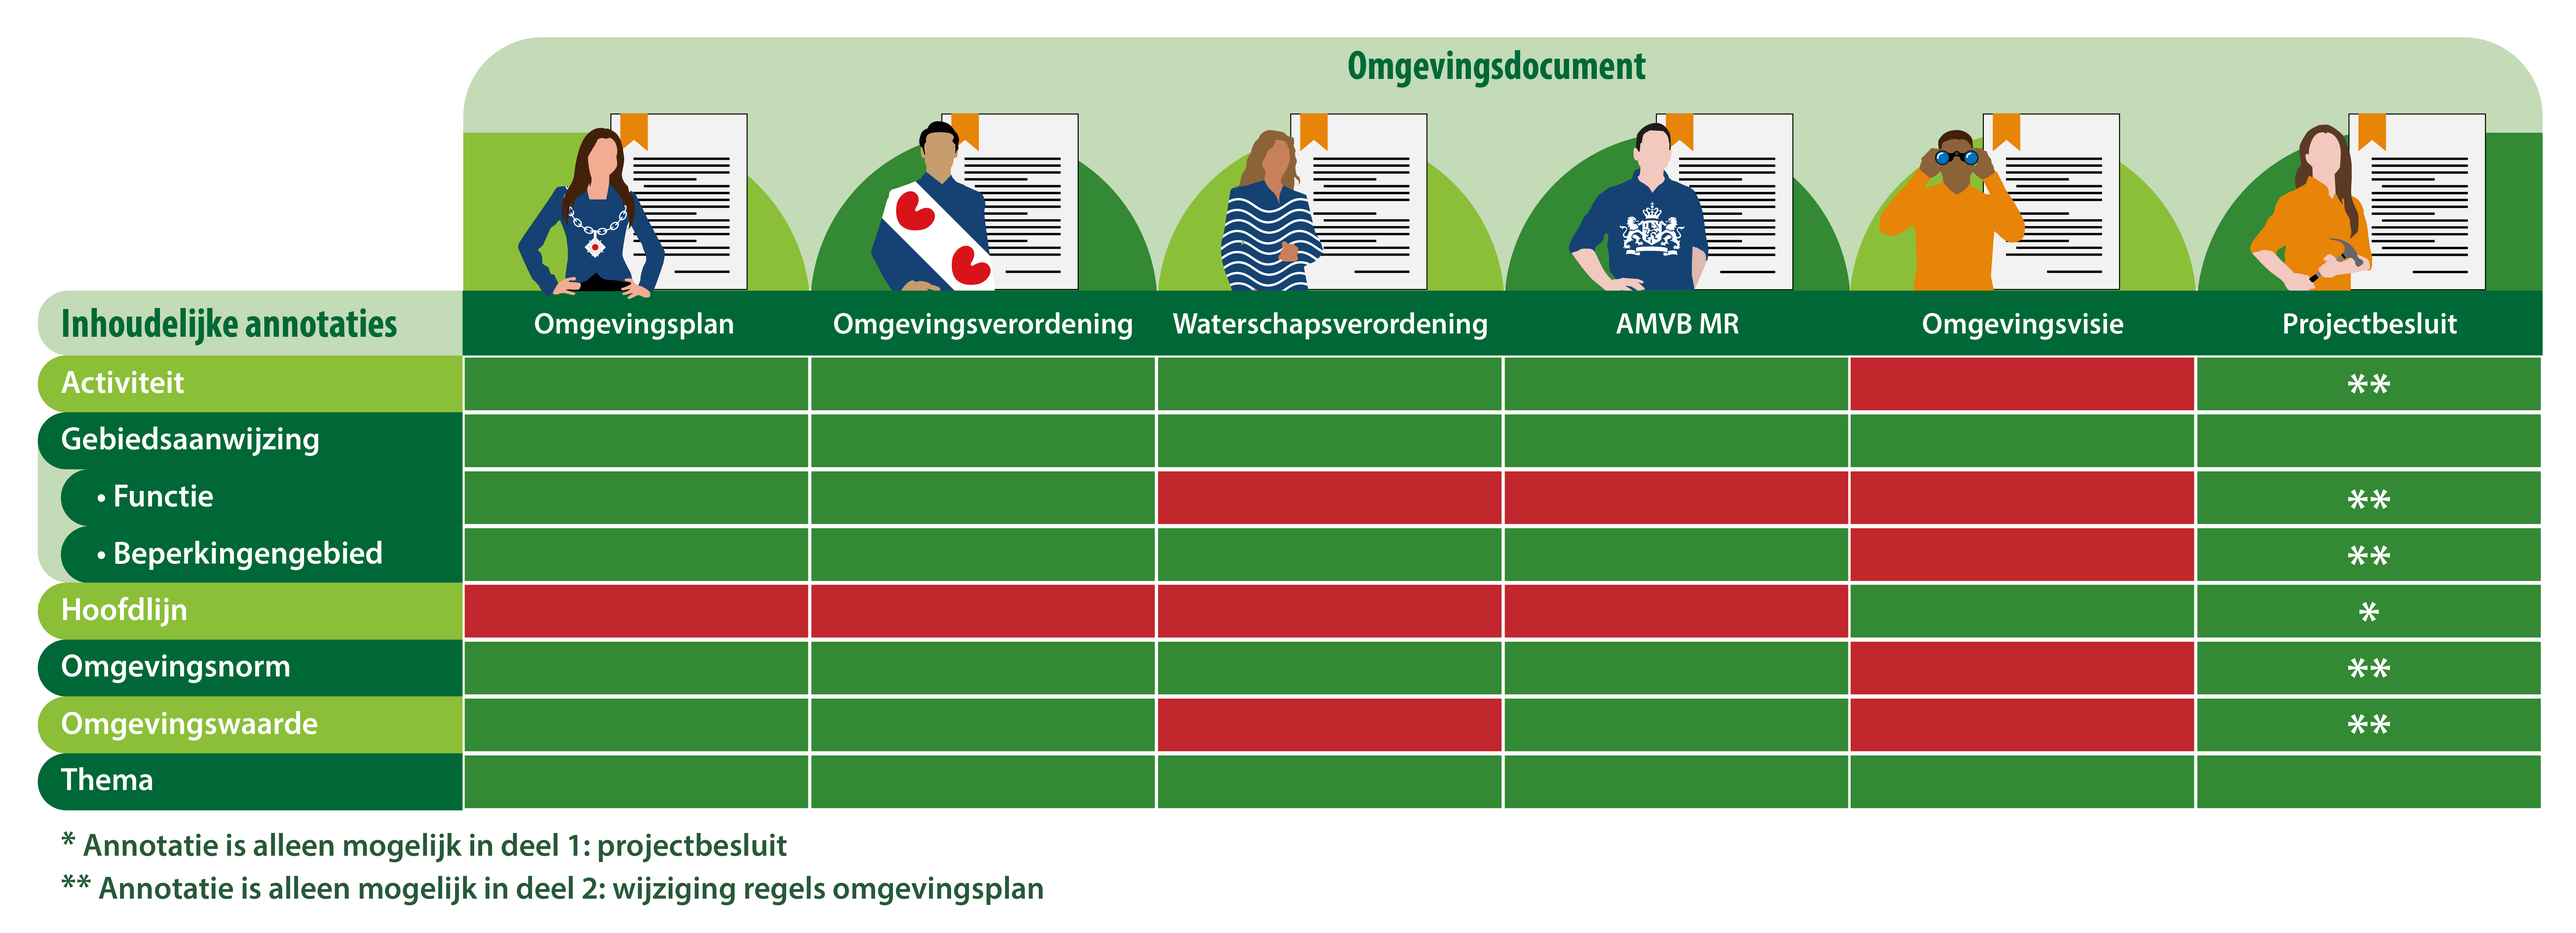
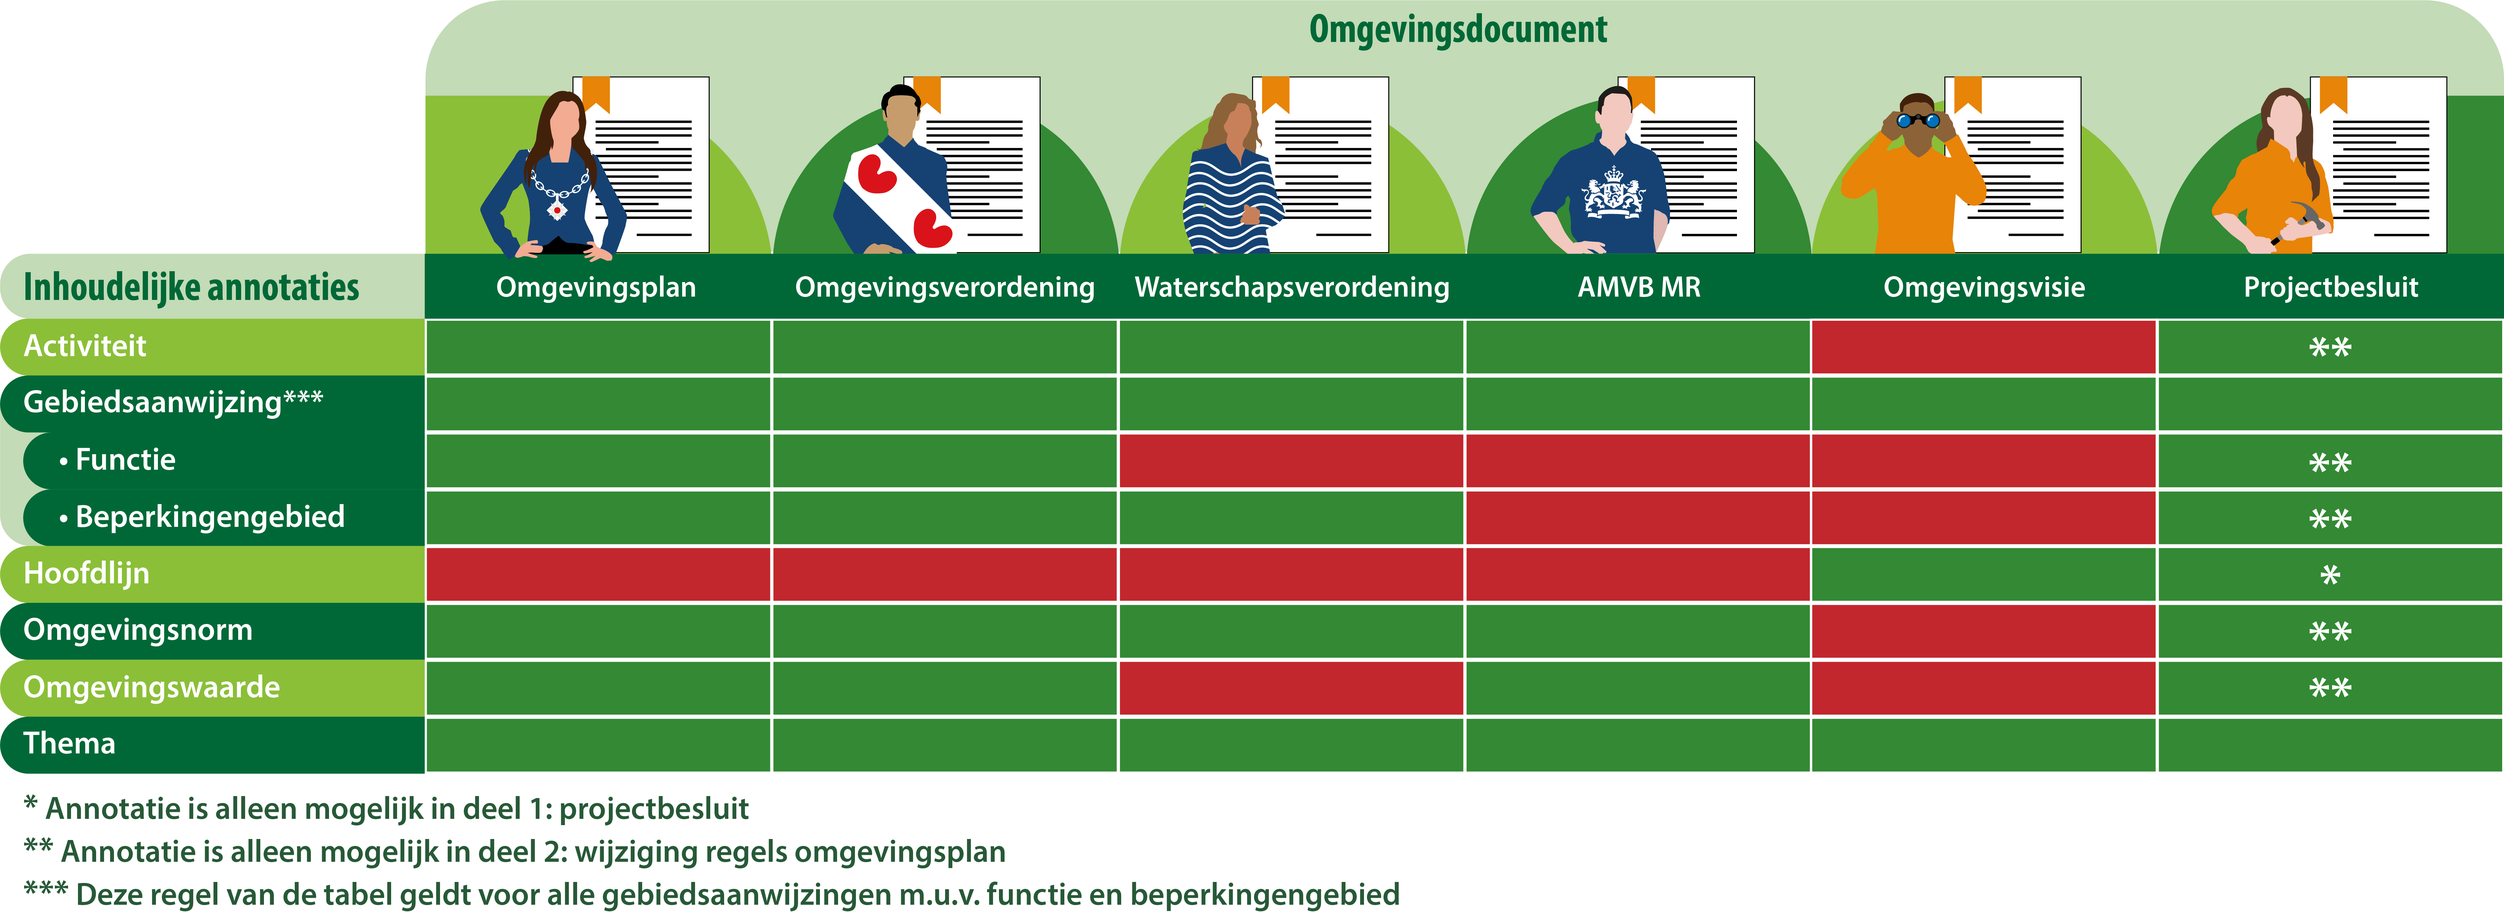
Update 06-12-2019 16.10 uur

diff --git a/Quicksearch - voorbeelduitwerkingen/Hoe annoteer ik een regel over een activiteit/7108 Koppeling juridische regels en toepasbare regels.md b/Quicksearch - voorbeelduitwerkingen/Hoe annoteer ik een regel over een activiteit/7108 Koppeling juridische regels en toepasbare regels.md
@@ -19,15 +19,14 @@ De toelichting op bovenstaande figuur volgt in onderstaande opsomming:
 >   structuur.  
 >   In bovenstaande figuur is de activiteit “Activiteiten met gevolgen voor de
 >   fysieke leefomgeving” het hoogste niveau (hiërarchisch), die via de
->   wet in de Functionele Structuur terecht komt.  
->   Onder deze activiteit valt o.a. de activiteit “Omgevingsplanactiviteit” die
->   door het IMOW-deel van de wet / AMvB in de Functionele Structuur terecht
->   komt.  
+>   wet in de Functionele Structuur terecht komt. Onder deze activiteit valt 
+>   o.a. de activiteit “Omgevingsplanactiviteit” die door het IMOW-deel van de wet / 
+>   AMvB in de Functionele Structuur terecht komt.  
 >   Ook het gegeven dat “Activiteiten met gevolgen voor de fysieke leefomgeving”
 >   de bovenliggende activiteit is van “Omgevingsplanactiviteit” komt via het
->   IMOW-deel van de wet / AMvB terecht in de Functionele Structuur. Bij het maken van
->   de activiteit *omgevingsplanactiviteit*, wordt in het attribuut *bovenliggende activiteit* 
->   aangegeven dat dit *Activiteiten met gevolgen voor de fysieke leefomgeving* is.
+>   IMOW-deel van de wet / AMvB terecht in de functionele structuur. Bij het maken van
+>   de activiteit "omgevingsplanactiviteit", wordt in het attribuut bovenliggende activiteit 
+>   aangegeven dat dit "Activiteiten met gevolgen voor de fysieke leefomgeving" is.
 
 >   2: Voor elk nieuw omgevingsdocument dat een IMOW-deel bevat met daarin
 >   activiteit-objecten, geldt dat nieuwe activiteiten gerelateerd moeten worden
@@ -54,8 +53,8 @@ De toelichting op bovenstaande figuur volgt in onderstaande opsomming:
 >   bouwen en van Dakkapel bouwen. Alle drie de activiteiten zijn nieuwe
 >   activiteiten die zijn vastgelegd in het omgevingsdocument. Om ervoor te
 >   zorgen dat Bouwactiviteit de bovenliggende activiteit wordt van de andere
->   twee activiteiten, dienen deze beide activiteiten een *bovenliggende
->   activiteit*-relatie aan te brengen naar de identificatie van Bouwactiviteit
+>   twee activiteiten, dienen deze beide activiteiten een bovenliggende
+>   activiteit-relatie aan te brengen naar de identificatie van Bouwactiviteit
 >   (in bovenstaande figuur gm0037.Activiteit.201900024). Daarnaast krijgen
 >   Bijbehorend bouwwerk bouwen en Dakkapel bouwen hun eigen identificatie
 >   (resp. gm0037.Activiteit.2019000243 en gm0037.Activiteit.2019000242).
@@ -63,12 +62,12 @@ De toelichting op bovenstaande figuur volgt in onderstaande opsomming:
 >   6,7: Zodra het omgevingsdocument en het IMOW-deel ervan in OZON terecht
 >   komt, worden alle IMOW-activiteit objecten ondergebracht in de functionele
 >   structuur. Dit wordt mogelijk gemaakt door de verplichting in IMOW op de
->   *bovenliggende activiteit* relatie. Uiteindelijk moet iedere activiteit gekoppeld
+>   bovenliggende activiteit relatie. Uiteindelijk moet iedere activiteit gekoppeld
 >   zijn aan een activiteit uit de functionele structuur, hetzij direct of indirect (middels
->   de bovenliggende activiteiten). Als in een omgevingsdocument nieuwe activiteiten vastgelegd worden die onderling elkaars *bovenliggende
->   activiteiten* vormen, dient de bovenste activiteit verplicht een
->   *bovenliggende activiteit*-relatie te krijgen met een activiteit die reeds
->   voorkomt in de functionele structuur.
+>   de bovenliggende activiteiten). Als in een omgevingsdocument nieuwe activiteiten 
+>   vastgelegd worden die onderling elkaars bovenliggende activiteiten vormen, dient de 
+>   bovenste activiteit verplicht een bovenliggende activiteit-relatie te krijgen met een 
+>   activiteit die reeds voorkomt in de functionele structuur.
 
 Het IMOW-attribuut activiteitregelkwalificatie, dat een nadere kwalificatie van
 een juridische regel over een activiteit geeft (bijvoorbeeld: vergunningplicht,

diff --git a/Quicksearch - voorbeelduitwerkingen/Hoe annoteer ik een regel over een activiteit/7107 Relatie met functionele structuur en toepasbare regels.md b/Quicksearch - voorbeelduitwerkingen/Hoe annoteer ik een regel over een activiteit/7107 Relatie met functionele structuur en toepasbare regels.md
@@ -8,17 +8,17 @@ uitleg over de functionele structuur.
 
 ![](media/7107RelatieRegelOverActiviteitenToepasbareRegel.png)
 
--   *Identificatie en naam*: 
-    de naam en identificatie worden opgeslagen in het
-    DSO, zowel in OZON als in de functionele structuur binnen het Register
-    Toepasbare Regels, die gevoed wordt door het IMOW-deel van
-    omgevingsdocumenten.
+-   **Identificatie en naam**: 
+    De naam en identificatie worden opgeslagen in het
+    DSO, zowel in OZON als in de functionele structuur binnen het [Register
+    Toepasbare Regels](https://aandeslagmetdeomgevingswet.nl/digitaal-stelsel/over-het-digitaal-stelsel/onderdelen-landelijke-voorziening/register-toepasbare-regels/), 
+    die gevoed wordt door het IMOW-deel van omgevingsdocumenten.
 
--   *Locatieaanduiding*: 
+-   **Locatieaanduiding**: 
     Toepasbare regels halen hun locatie uit de
     locatieaanduidingen die door de juridische regel(s) over de activiteit in IMOW wordt aangeduid.
 
--   *Bovenliggende activiteit*: 
+-   **Bovenliggende activiteit**: 
     Met dit attribuut geef je aan hoe de specifieke activiteit (die je aanmaakt)
     zich verhoudt tot een meer generieke activiteit. De bovenliggende activiteit kan een activiteit zijn die 
     al in de functionele structuur bestaat. Het mag ook een activiteit zijn die je in hetzelfde omgevingsdocument
@@ -28,9 +28,8 @@ uitleg over de functionele structuur.
     Een voorbeeld is de activiteit ‘het opslaan van motorbrandstoffen’ die een specificatie is van de generieke, 
     in de Omgevingswet benoemde, activiteit ‘milieubelastende activiteit’.
 
--   *Gerelateerde activiteit*: 
-    Een secundair (d.w.z. niet verplicht)
-    aanknopingspunt tussen juridische regels en toepasbare regels vormen
+-   **Gerelateerde activiteit**: 
+    Een (niet verplicht) aanknopingspunt tussen juridische regels en toepasbare regels vormen
     relaties tussen activiteiten die geen hiërarchie / taxonomie aanduiden, maar
     die aanduiden dat activiteiten op een andere wijze contextueel relevant met
     elkaar zijn. De gerelateerde activiteit mag een

diff --git a/Quicksearch - voorbeelduitwerkingen/Hoe annoteer ik een regel over een activiteit/7103 Hoe maak je de regel nog beter vindbaar en zichtbaar.md b/Quicksearch - voorbeelduitwerkingen/Hoe annoteer ik een regel over een activiteit/7103 Hoe maak je de regel nog beter vindbaar en zichtbaar.md
@@ -17,16 +17,20 @@ In onderstaand voorbeeld is uitgewerkt welke informatie hiervoor geannoteerd
 >   enkele voorbeelden. De naam moet uniek zijn binnen het plan, echter het kan wel voorkomen 
 >   dat het dezelfde naam is als een activiteit van een ander bevoegd gezag. De naam van 
 >   de activiteit mag dezelfde zijn als de naam van de hierna (onder 5) genoemde activiteitengroep.
-
 >   Hieronder volgen voorbeelden met toelichting:
->   *- Artikel X: het lozen van afvalstoffen is een milieubelastende activiteit.
->   - Artikel Y: afvalstoffen mogen niet binnen 30 meter van een waterzuiveringsinstallatie geloosd worden. 
->   - Artikel Z: Binnen 30 meter van een waterzuiveringsinstallatie mag niet geloosd worden.
+
+>   *- Artikel X: het lozen van afvalstoffen is een milieubelastende activiteit.*
+
+>   *- Artikel Y: afvalstoffen mogen niet binnen 30 meter van een waterzuiveringsinstallatie geloosd worden.* 
+
+>   *- Artikel Z: Binnen 30 meter van een waterzuiveringsinstallatie mag niet geloosd worden.*
+
 >   Alle artikelen hebben de activiteit ‘lozen van afvalstoffen’ in zich. In Artikel X staat 
 >   deze activiteit expliciet in de tekst, in artikel Y en Z staat deze er impliciet in. 
 >   Door artikel Y en Z zodanig te annoteren dat daaruit het object ‘lozen van afvalstoffen’ 
 >   ontstaat, is het mogelijk deze activiteit aan het DSO aan te leveren. Indien gewenst 
->   kunnen er toepasbare regels voor gemaakt worden.*
+>   kunnen er toepasbare regels voor gemaakt worden.
+
 >   De naam van de activiteit die wordt geannoteerd, zal in het DSO ook de naam zijn waarop
 >   gezocht en gefilterd kan worden. Hier moet bij de naamgeving rekening mee gehouden worden.
 >   Daarom wordt geadviseerd om een logische en eenduidige naam te annoteren.

diff --git a/Quicksearch - voorbeelduitwerkingen/Hoe annoteer ik een regel over een activiteit/7106 Activiteit en toepasbare regels.md b/Quicksearch - voorbeelduitwerkingen/Hoe annoteer ik een regel over een activiteit/7106 Activiteit en toepasbare regels.md
@@ -2,15 +2,15 @@
 
 Een activiteit is raadpleegbaar te maken in 'Regels op de Kaart' doormiddel van de STOP/TPOD. 
 Om dezelfde regels over activiteiten voor initiatiefnemers via de vergunningchecker van het DSO te ontsluiten, 
-moet je de activiteit 'toepasbaar' maken. Hiervoor moet je toepasbare regels aanleveren. 
+moet je de activiteit 'toepasbaar' maken. Hiervoor moet je toepasbare regels aanleveren volgens de [STTR en IMTR](https://aandeslagmetdeomgevingswet.nl/digitaal-stelsel/aansluiten/standaarden/sttr-imtr/). 
 
-Voordat je aan de slag kan met toepasbare regels, moet je de acties 1 tot en met 5 van
+Voordat je aan de slag kan met toepasbare regels, moet je de acties 1 tot en met 6 van
 [opstellen van een regel over een activiteit](/hoe-maak-ik-een-regel-over-een-activiteit/opstellen-van-een-regel-over-een-activiteit)
-uitvoeren. De activiteit moet dus *eerst* middels STOP/TPOD gemaakt en aangeleverd zijn aan het DSO,
+uitvoeren. De activiteit moet dus eerst middels STOP/TPOD gemaakt en aangeleverd zijn aan het DSO,
 voordat de toepasbare regel aan het DSO aangeleverd kan worden. 
 
 Op deze pagina lees je meer informatie over de relatie tussen activiteiten uit STOP/TPOD, 
-de Functionele structuur en toepasbare regels. 
+de functionele structuur en toepasbare regels. 
 
 
 

diff --git a/Quicksearch - voorbeelduitwerkingen/Hoe annoteer ik een regel over een activiteit/7104 Wat kun je allemaal nog meer doen.md b/Quicksearch - voorbeelduitwerkingen/Hoe annoteer ik een regel over een activiteit/7104 Wat kun je allemaal nog meer doen.md
@@ -1,6 +1,6 @@
 #### Wat kun je allemaal nog meer doen?
 
-Een raadpleger kan zich, met behulp van de acties uit 1 t/m 6, oriënteren in de
+Een raadpleger kan zich, met behulp van de acties uit 1 tot en met 6, oriënteren in de
 ‘Regels op de kaart’. Hij  kan filteren op activiteiten, kan op zijn locatie zien
 welke regels er van toepassing zijn en kan de activiteiten terugzien op de kaart. 
 
@@ -54,7 +54,7 @@ gerelateerde regeltekst toe te voegen.
 Wil je het voor de initiatiefnemer nog makkelijker maken? Ga dan aan de slag met
 [toepasbare regels](https://wegwijzerstoptpod.nl/hoe-maak-ik-een-regel-over-een-activiteit/activiteit-en-toepasbare-regels). 
 Om hiermee te kunnen beginnen is het een voorwaarde dat de 
-acties 2 tot en met 6 uitgevoerd zijn. Dankzij deze acties en de toepasbare regels,
+acties 1 tot en met 6 uitgevoerd zijn. Dankzij deze acties en de toepasbare regels,
 is het mogelijk voor de initiatiefnemer om de vergunningchecker te gebruiken. 
 
 Bovenstaande stappen geven inzicht in hoe de standaard bedoelt is, de exacte 

diff --git a/Hfst 3 Regels/3116 Toepassen van annoteren.md b/Hfst 3 Regels/3116 Toepassen van annoteren.md
@@ -3,7 +3,8 @@
 In de TPOD is gespecificeerd van welke annotatie mogelijkheden er gebruik
 gemaakt kan of moet worden volgens IMOW. In onderstaande tabel is voor de
 inhoudelijke annotaties uitgewerkt welke van toepassing zijn in welke
-omgevingsdocumenten. Een kleine leeswijzer:
+omgevingsdocumenten. 
+Toelichting op de kleurgebruik in de tabel:
 
 Groen= Annotatie is van toepassing
 
@@ -32,9 +33,9 @@ manier wordt de volledige context getoond (zie p. 42 in de TPOD).
 
 of
 
-In het DSO-LV zal bij bevraging altijd de volledige formele inhoud als resultaat
-worden weergegeven en niet het individuele tekstdeel. Op deze manier wordt de
-volledige context getoond (zie p. 29 in de TPOD).
+In het DSO-LV zal bij bevraging altijd de volledige formele divisie als resultaat
+worden weergegeven en niet de individuele formele inhoud. Op deze manier wordt de
+volledige context getoond inclusief alle koppen (zie p. 29 in de TPOD).
 
 Zie onderstaande figuren voor een schematische weergave.
 

diff --git a/Quicksearch - voorbeelduitwerkingen/Hoe annoteer ik een regel over een activiteit/7102 Wat moet jij doen.md b/Quicksearch - voorbeelduitwerkingen/Hoe annoteer ik een regel over een activiteit/7102 Wat moet jij doen.md
@@ -23,7 +23,7 @@ Zie hieronder een voorbeeld van een regel over het 'aanleggen van een uitrit'
 ![](media/7102RegelZonderActiviteitBasis.png)
 
 >   **1. Type regel: om welk type regel gaat het en aan wie is het gericht?**  
->   **a)** Er zijn drie typen regels die je kunt kiezen. Een regel voor iedereen,
+>   Er zijn drie typen regels die je kunt kiezen. Een regel voor iedereen,
 >   een instructieregel of een omgevingswaarderegel. Een instructieregel is
 >   gericht aan een ander instrument of taakbevoegdheid en een omgevingswaarderegel
 >   is zelfbindend voor het bestuursorgaan dat de omgevingswaarde vaststelt. Een regel

diff --git a/Hfst 3 Regels/3216 Toepassen van annoteren.md b/Hfst 3 Regels/3216 Toepassen van annoteren.md
@@ -4,7 +4,8 @@ In het IMOP is vastgelegd welke mogelijkheden er zijn met betrekking tot
 annoteren. In de TPOD is vervolgens gespecificeerd van welke annotatie
 mogelijkheden er gebruik gemaakt kan of moet worden volgens IMOW. In
 onderstaande tabel is voor de annotaties uitgewerkt welke van toepassing zijn in
-welke omgevingsdocumenten. Een kleine leeswijzer:
+welke omgevingsdocumenten. 
+Toelichting op de kleurgebruik in de tabel:
 
 Groen= Annotatie is van toepassing
 

diff --git a/Hfst 3 Regels/3016 Toepassen van annoteren.md b/Hfst 3 Regels/3016 Toepassen van annoteren.md
@@ -3,7 +3,7 @@
 In de TPOD is gespecificeerd van welke annotatie mogelijkheden er gebruik
 gemaakt kan worden volgens IMOW. In onderstaande tabel is voor de inhoudelijke
 annotaties uitgewerkt welke van toepassing zijn in welke omgevingsdocumenten.
-Een kleine leeswijzer:
+Toelichting op de kleurgebruik in de tabel:
 
 Groen= Annotatie is van toepassing
 

diff --git a/Hfst 3 Regels/3115 Het doel van annoteren.md b/Hfst 3 Regels/3115 Het doel van annoteren.md
@@ -18,6 +18,8 @@ laatste plaats ten behoeve van de informatieverschaffing in DSO-LV.
 
 Voor de omgevingsvisie gaat het om de volgende IMOW-objecten:
 
+-   Formele divisie
+
 -   Tekstdeel
 
 -   Locatie
